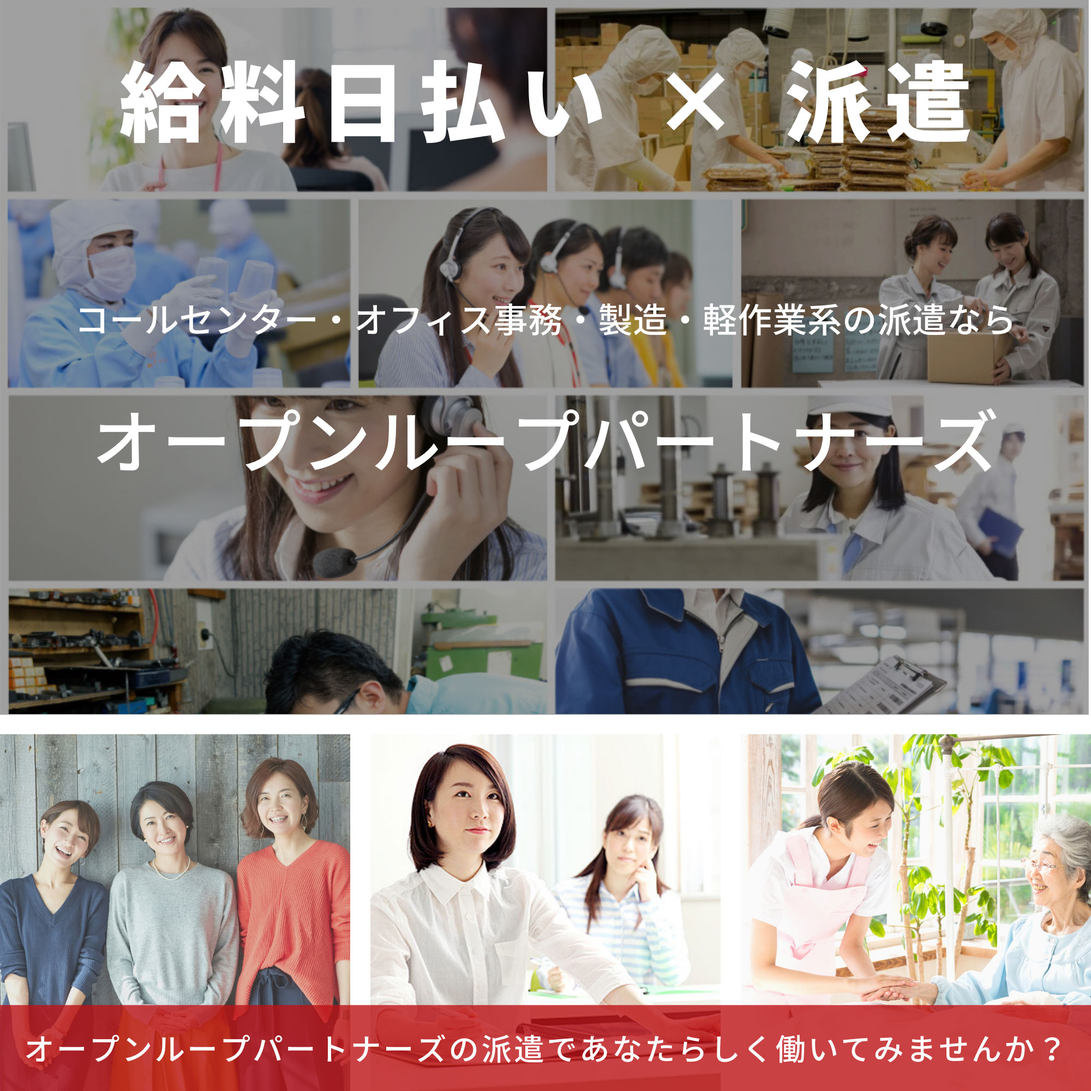
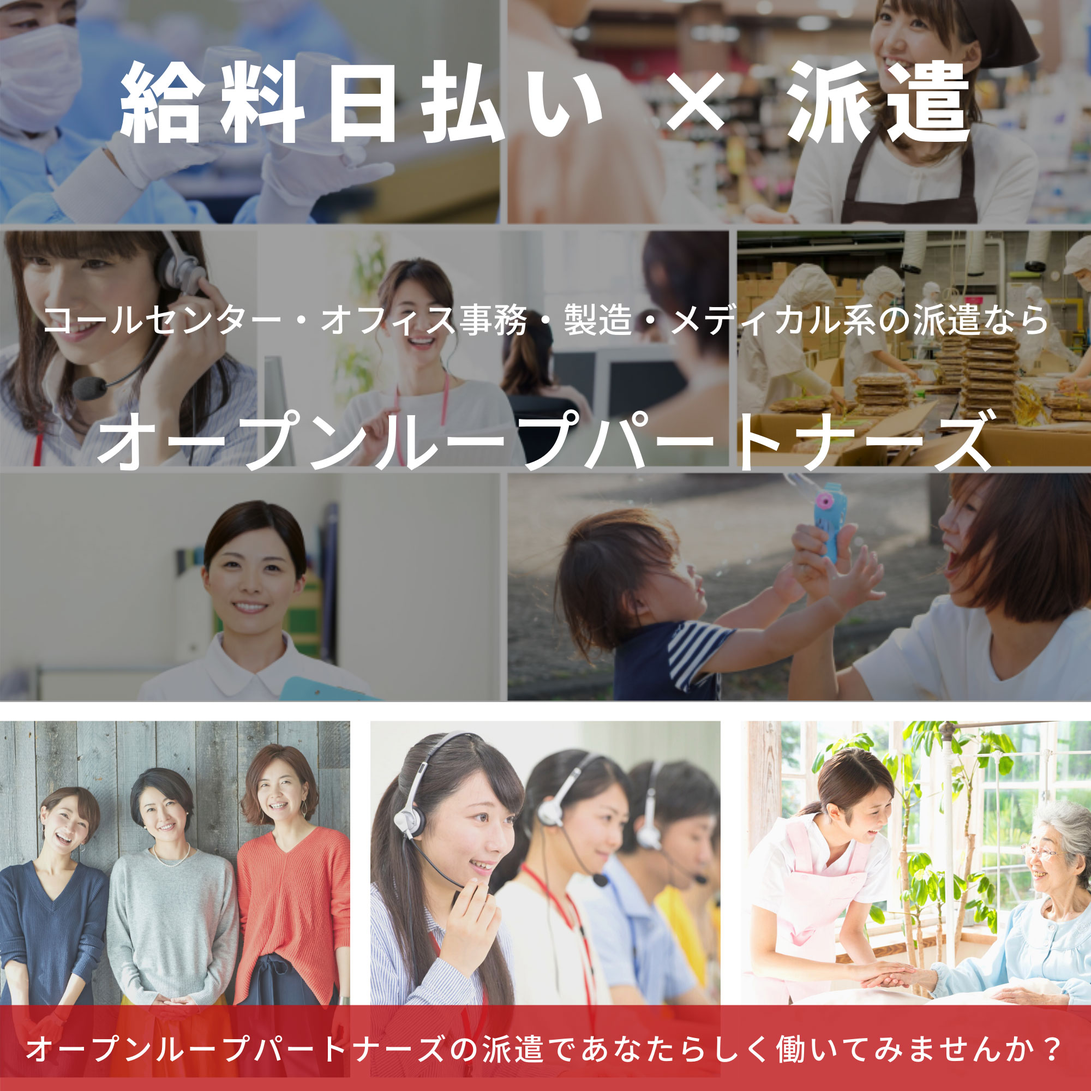
up

diff --git a/docs/index.html b/docs/index.html
@@ -5,8 +5,8 @@
   <meta charset="utf-8">
   <meta name="viewport" content="width=device-width, initial-scale=1">
   <link rel="icon" href="assets/img/favicon.ico">
-  <title>東北エリアの人材派遣 | 求人・日払い・仕事探し・スタッフ登録はオープンループパートナーズ</title>
-  <meta name="description" content="東北エリアの人材派遣業　求人・日払い・仕事探し・学生・主婦・フリーター・短期・スタッフ登録はオープンループパートナーズ">
+  <title>北陸・甲信越エリアの人材派遣 | 求人・日払い・仕事探し・スタッフ登録はオープンループパートナーズ</title>
+  <meta name="description" content="北陸・甲信越エリアの人材派遣業　求人・日払い・仕事探し・学生・主婦・フリーター・短期・スタッフ登録はオープンループパートナーズ">
   <meta name="keywords" content="求人,日払い,短期,コールセンター,軽作業,工場,販売,医療介護">
   <meta name="author" content="Tsuyoshi Nakamura">
   <link rel="stylesheet" href="https://cdnjs.cloudflare.com/ajax/libs/font-awesome/4.7.0/css/font-awesome.min.css" type="text/css">
@@ -17,7 +17,7 @@
 <body class="">
   <nav class="navbar navbar-expand-lg navbar-dark bg-dark py-0 pc">
     <div class="container-fluid">
-      <p class="mb-0 small">東北エリアの人材派遣&nbsp;&nbsp;|&nbsp;&nbsp;求人・日払い・仕事探し・スタッフ登録はオープンループパートナーズ</p>
+      <p class="mb-0 small">北陸・甲信越エリアの人材派遣&nbsp;&nbsp;|&nbsp;&nbsp;求人・日払い・仕事探し・スタッフ登録はオープンループパートナーズ</p>
       <ul class="navbar-nav small">
         <li class="nav-item"> <a class="nav-link text-white" href="https://itp.ne.jp/info/130560529080841160/lp/1/"><i class="fa fa-fw fa-angle-right">&nbsp;</i>&nbsp;企業の方はこちら</a> </li>
         <li class="nav-item"> <a class="nav-link text-white" href="https://www.olp.co.jp/" target="_blank"><i class="fa fa-fw fa-angle-right">&nbsp;</i>&nbsp;公式サイト</a> </li>
@@ -34,7 +34,7 @@
   <div class="py-5 pb-5">
     <div class="container">
       <div class="row">
-        <div class="col-md-8 mx-auto alpha"><a href="https://sigotora.jp/index.cfm?fuseaction=job.joblist&amp;srh_area_param=2" target="_blank"><img class="img-fluid d-block mx-auto" src="assets/img/button.png"></a></div>
+        <div class="col-md-8 mx-auto alpha"><a href="https://sigotora.jp/index.cfm?fuseaction=job.joblist&amp;srh_area_param=4" target="_blank"><img class="img-fluid d-block mx-auto" src="assets/img/button.png"></a></div>
       </div>
     </div>
   </div>
@@ -66,22 +66,22 @@
       </div>
       <div class="row text-center">
         <div class="col-md-3 col-6 special p-2">
-          <a href="https://sigotora.jp/index.cfm?fuseaction=job.joblist&amp;srh_area_param=2&amp;srh_jobtype_param=1&amp;srh_jobtype_child_param=4,5" target="_blank"></a>
+          <a href="https://sigotora.jp/index.cfm?fuseaction=job.joblist&amp;srh_area_param=4&amp;srh_jobtype_param=1&amp;srh_jobtype_child_param=4,5" target="_blank"></a>
           <img class="d-block mb-3 mx-auto img-fluid rounded-circle" src="assets/img/call.jpg">
           <p class="mb-0"> <b>コールセンター</b></p>
         </div>
         <div class="col-md-3 col-6 special p-2">
-          <a href="https://sigotora.jp/index.cfm?fuseaction=job.joblist&amp;srh_area_param=2&amp;srh_jobtype_param=1&amp;srh_jobtype_child_param=1,2,3,6,7,8,11" target="_blank"></a>
+          <a href="https://sigotora.jp/index.cfm?fuseaction=job.joblist&amp;srh_area_param=4&amp;srh_jobtype_param=1&amp;srh_jobtype_child_param=1,2,3,6,7,8,11" target="_blank"></a>
           <img class="img-fluid d-block mb-3 mx-auto rounded-circle" src="assets/img/office.jpg">
           <p class="mb-0"> <b>オフィスワーク</b></p>
         </div>
         <div class="col-md-3 col-6 special p-2">
-          <a href="https://sigotora.jp/index.cfm?fuseaction=job.joblist&amp;srh_area_param=2&amp;srh_jobtype_param=9" target="_blank"></a>
+          <a href="https://sigotora.jp/index.cfm?fuseaction=job.joblist&amp;srh_area_param=4&amp;srh_jobtype_param=9" target="_blank"></a>
           <img class="img-fluid d-block mb-3 mx-auto rounded-circle" src="assets/img/keisagyo.jpg">
           <p class="mb-0"> <b>軽作業</b></p>
         </div>
         <div class="col-md-3 col-6 special p-2">
-          <a href="https://sigotora.jp/index.cfm?fuseaction=job.joblist&amp;srh_area_param=2&amp;srh_jobtype_param=10" target="_blank"></a>
+          <a href="https://sigotora.jp/index.cfm?fuseaction=job.joblist&amp;srh_area_param=4&amp;srh_jobtype_param=10" target="_blank"></a>
           <img class="img-fluid d-block mb-3 mx-auto rounded-circle" src="assets/img/seizo.jpg">
           <p class="mb-0"> <b>製造</b></p>
         </div>
@@ -91,7 +91,7 @@
   <div class="py-5 pb-5">
     <div class="container">
       <div class="row">
-        <div class="col-md-8 mx-auto alpha"><a href="https://sigotora.jp/index.cfm?fuseaction=job.joblist&amp;srh_area_param=2" target="_blank"><img class="img-fluid d-block mx-auto" src="assets/img/button.png"></a></div>
+        <div class="col-md-8 mx-auto alpha"><a href="https://sigotora.jp/index.cfm?fuseaction=job.joblist&amp;srh_area_param=4" target="_blank"><img class="img-fluid d-block mx-auto" src="assets/img/button.png"></a></div>
       </div>
     </div>
   </div>
@@ -152,7 +152,7 @@
   <div class="py-5 pb-5">
     <div class="container">
       <div class="row">
-        <div class="col-md-8 mx-auto alpha"><a href="https://sigotora.jp/index.cfm?fuseaction=job.joblist&amp;srh_area_param=2" target="_blank"><img class="img-fluid d-block mx-auto" src="assets/img/button.png"></a></div>
+        <div class="col-md-8 mx-auto alpha"><a href="https://sigotora.jp/index.cfm?fuseaction=job.joblist&amp;srh_area_param=4" target="_blank"><img class="img-fluid d-block mx-auto" src="assets/img/button.png"></a></div>
       </div>
     </div>
   </div>
@@ -201,7 +201,7 @@
   <div class="py-5 pb-5">
     <div class="container">
       <div class="row">
-        <div class="col-md-8 mx-auto alpha"><a href="https://sigotora.jp/index.cfm?fuseaction=job.joblist&amp;srh_area_param=2" target="_blank"><img class="img-fluid d-block mx-auto" src="assets/img/button.png"></a></div>
+        <div class="col-md-8 mx-auto alpha"><a href="https://sigotora.jp/index.cfm?fuseaction=job.joblist&amp;srh_area_param=4" target="_blank"><img class="img-fluid d-block mx-auto" src="assets/img/button.png"></a></div>
       </div>
     </div>
   </div>
@@ -243,7 +243,7 @@
   <div class="py-5 pb-5">
     <div class="container">
       <div class="row">
-        <div class="col-md-8 mx-auto alpha"><a href="https://sigotora.jp/index.cfm?fuseaction=job.joblist&amp;srh_area_param=2" target="_blank"><img class="img-fluid d-block mx-auto" src="assets/img/button.png"></a></div>
+        <div class="col-md-8 mx-auto alpha"><a href="https://sigotora.jp/index.cfm?fuseaction=job.joblist&amp;srh_area_param=4" target="_blank"><img class="img-fluid d-block mx-auto" src="assets/img/button.png"></a></div>
       </div>
     </div>
   </div>
